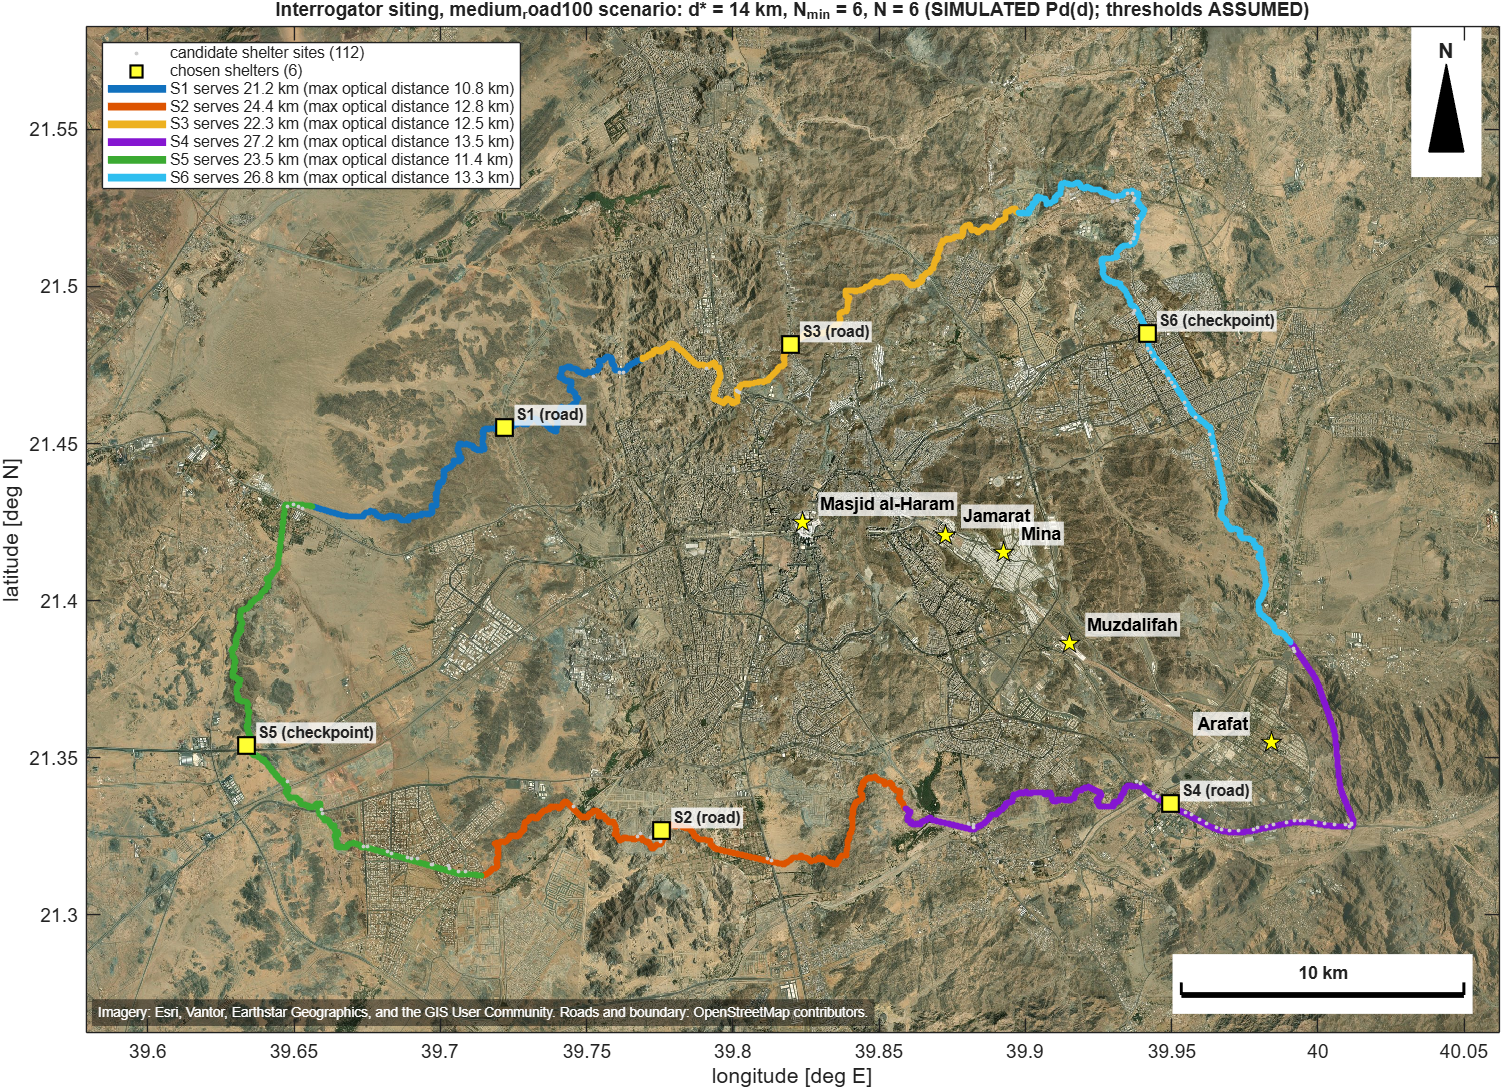
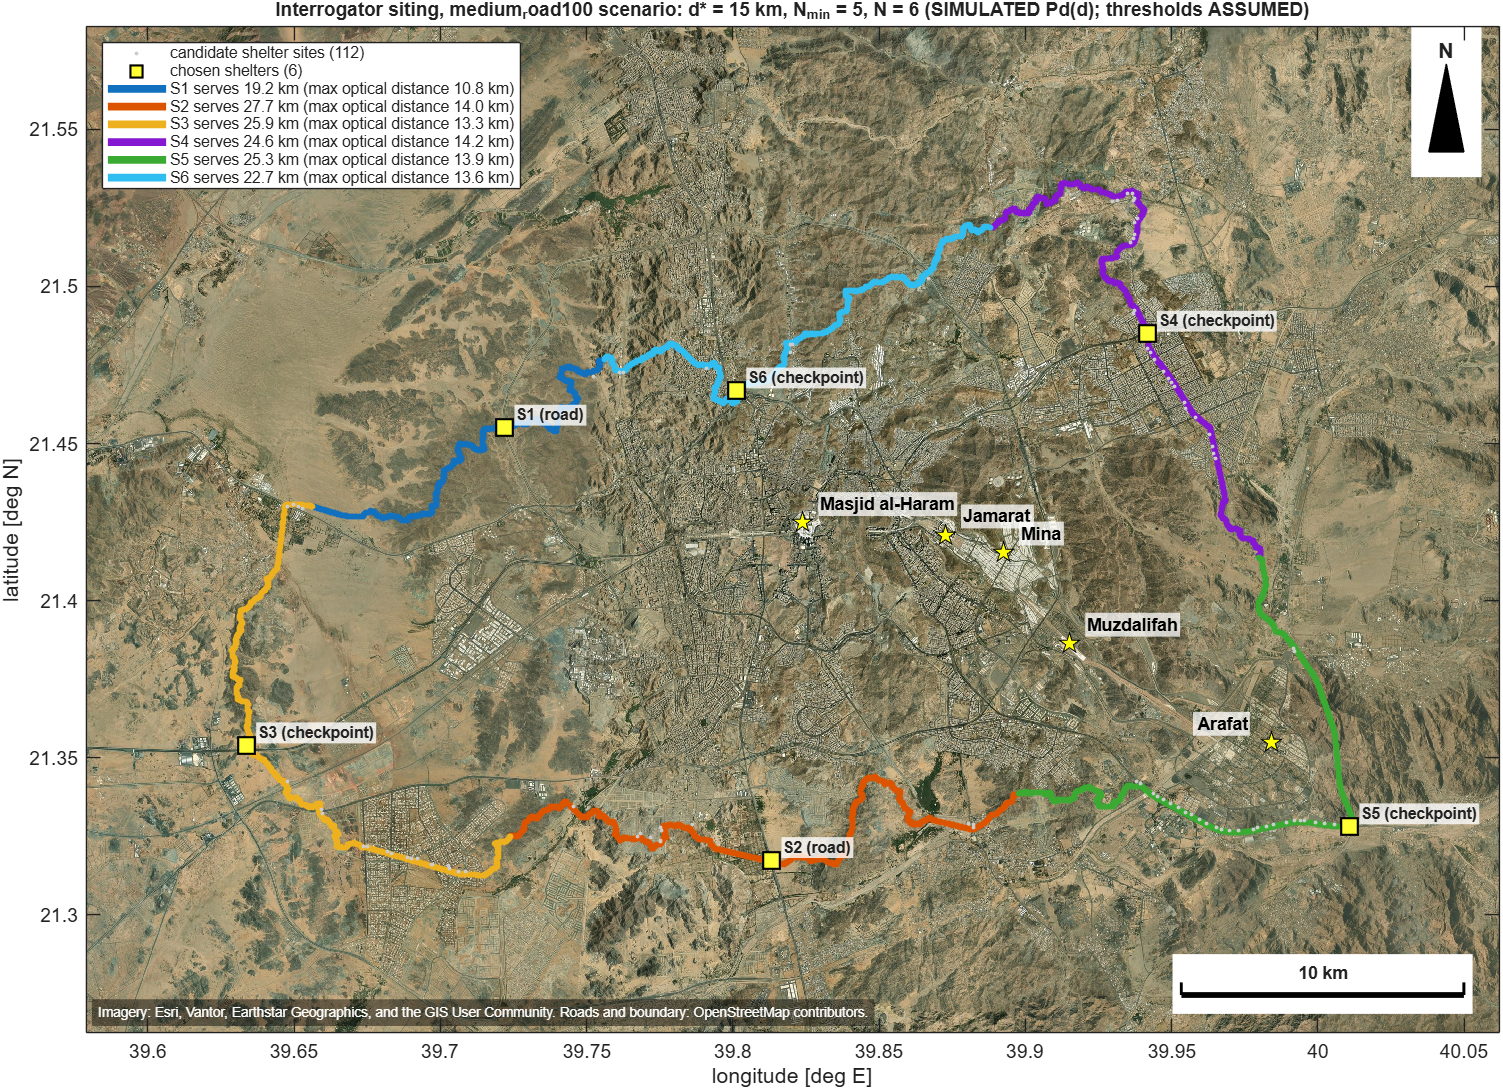
Siting: N = 5 proof (4.1 km uncovered, +879k SAR for N = 6), full sensitivity table (8 cases, N = 6 in all), explanation of the Stage 9 vs Pd(d) contradiction (library mix 0.854 at 15 km)

diff --git a/report/key_numbers.md b/report/key_numbers.md
@@ -130,3 +130,11 @@ N = ceil(145.47 / (2 d*)). N = 5 for every d* between 14.55 km (= L / 10) and 18
 
 ## d* result (dense run, rule fixed beforehand; `results/siting/d_star.json`, `pd_curve.png`, `dstar_rule_table.csv`)
 Rule (table row `siting_dstar_rule`, applied to the **type-mix Pd**, i.e. the average of the five intrusion types weighted as in Stage 9): d* = farthest distance with the LOWER 95 % limit of the monotone Pd(d) >= Pd_DAS = 0.969. Result: **d* = 14.75 km** (resolution 0.25 km; lower limit 0.9735 at 14.75 km, 0.9669 at 15 km). For comparison only: weakest-type rule 13 km (walking), point-estimate rule 15 km, upper-limit rule 17 km, first coarse run 17 km. FEBUS range option: 20 km. **N = ceil(145.47 / 29.5) = 5**, inside the 14.55-18.18 km interval where N = 5; N would become 6 if d* fell below 14.55 km (the weakest-type rule, 13 km, would give 6). The margin to the 14.55 km edge is only 0.2 km.
+
+## Siting result at d* = 14.75 km: analytic minimum 5, actual solution 6 (`results/siting/n5_test.json`, `scripts/siting_n5_test.m`, `results/siting/sensitivity.csv`)
+**The analytic minimum is N_min = 5 (ceil(145.47 / 29.5)), the actual solution is N = 6 because of the siting constraints.** Evidence (medium scenario, same candidates and objectives):
+* Ideal sites (any position on the boundary, no lead-in): the minimum cover is 5 sites. With the 131 real candidates (road sites 50-200 m inside the boundary + the 5 checkpoints, lead-in fibre subtracted from the reach): the minimum cover is 6 sites. The slack of N = 5 is only 14.75 - 14.55 = 0.2 km per side.
+* MILP with N = 5 forced (`Siting.Nfix`): it is feasible only because the coverage of the boundary is a violation to be minimised in stage 1, not a hard constraint: it leaves 4 cells (4.10 km of fibre: arc 23.1-23.7, 52.3-54.4 and 110.4-111.9 km of the boundary) WITHOUT DAS, with C_total 11,775,758 SAR. Each of those stretches is reachable by some candidate, but no choice of 5 allowed sites covers them all: the 5 sites would have to be placed so exactly that the allowed (road / checkpoint) positions and their lead-in fibre do not permit it.
+* The lexicographic MILP minimises the number of violating cells first, so it takes N = 6: full coverage, C_total 12,654,986 SAR, i.e. **+879,228 SAR (+7.5 %) for the 4.10 km that the 5-site solution leaves uncovered**.
+* Sensitivities (road 100 / 200 / 500 m, slope 5 / 10 / 15 %, waterway 25 / 50 / 100 m, inside distance 200 / 500 m): N = 6 in all 8 cases; cost 12,654,814-12,655,748 SAR; five of the six sites are the same in every case (4 checkpoints Al-Sharaye, Al-Hada, Al-Shumaisi (new), Al-Nawariyah and one road site near 58.4 km); only the road site near 108.9 km moves (97.4 km with slope 5 %, 97.9 km with road 500 m).
+* The site at 86 km (Al-Shumaisi (new) checkpoint) has a ground slope of 15.3 %: it is allowed because the entrance checkpoints are exempt from the filters (table row `siting_checkpoint_exempt`; they already have buildings and infrastructure).

diff --git a/report/assumptions.md b/report/assumptions.md
@@ -43,7 +43,7 @@ The protocol is applied as far as the Brno data allow. Every deviation and its r
 
 
 ## Pd(d): one model for the optimization and the simulation (23 Nov 2026)
-* **Why Stage 9 and the first Pd(d) curve disagreed.** Stage 9 used `das_lookup`: the nearest of five library distances (0.5, 5, 10, 15, 20 km) with only 12 windows per type and distance. The miss share of 6.4 % at 10-15 km came from events at 12.5-15 km using the 15 km bin, where those 12 windows happened to give Pd 0.75 for walking and 0.92 for vehicle and climbing (mix 0.93); the dense curve (80 windows per type, every km) gives 0.99 at 15 km. Same engine, same threshold, same type mix, same 2 s window and the same distance definition: the cause was sampling noise (12 windows) plus a step lookup, not physics. The library Pd at 20 km (0.95) is consistent with the dense curve (0.94).
+* **Why Stage 9 and the Pd(d) curve disagreed.** Stage 9 used `das_lookup`: the NEAREST of five library distances (0.5, 5, 10, 15, 20 km), with only 12 windows per type and distance. Events at 12.5-17.5 km therefore used the 15 km bin, where those 12 windows gave Pd 0.75 for walking and 0.92 for vehicle and climbing: type-mix Pd = 0.854 (computed from `results/das_library.mat` with the Stage 9 type shares). The dense curve gives 0.975 at 15 km (80 windows per type at the first run, 400 per type in the dense run). Half of the events of the 10-15 km band use the 10 km bin (Pd 1.00) and half the 15 km bin (0.854): expected miss 7.3 %, observed 6.4 %. Same engine, same threshold, same type mix, same 2 s window; lead-in fibre and crossing time play no role (the old simulation used the arc distance only). The cause was sampling noise (12 windows: three of twelve walking windows missed at 15 km) plus the step lookup, not physics. At 20 km the library (0.950) agrees with the dense curve (0.935).
 * **Single model.** `results/siting/pd_model.mat` (isotonic Pd(d) per intruder type from the dense run, linear in d) is used (a) to derive d*, and so the channel reach and N_min of the siting MILP, and (b) by `das_observe` for the detection decision of every simulated intruder. The library windows are still used for the AI input, the SNR and the localization error. Optical distance in the simulation now includes the lead-in fibre of the shelter.
 * **d* rule (fixed before the dense run, table row `siting_dstar_rule`).** d* = the farthest distance up to which the lower 95 % limit of the monotone Pd(d) curve stays >= Pd_DAS = 0.969.
 
